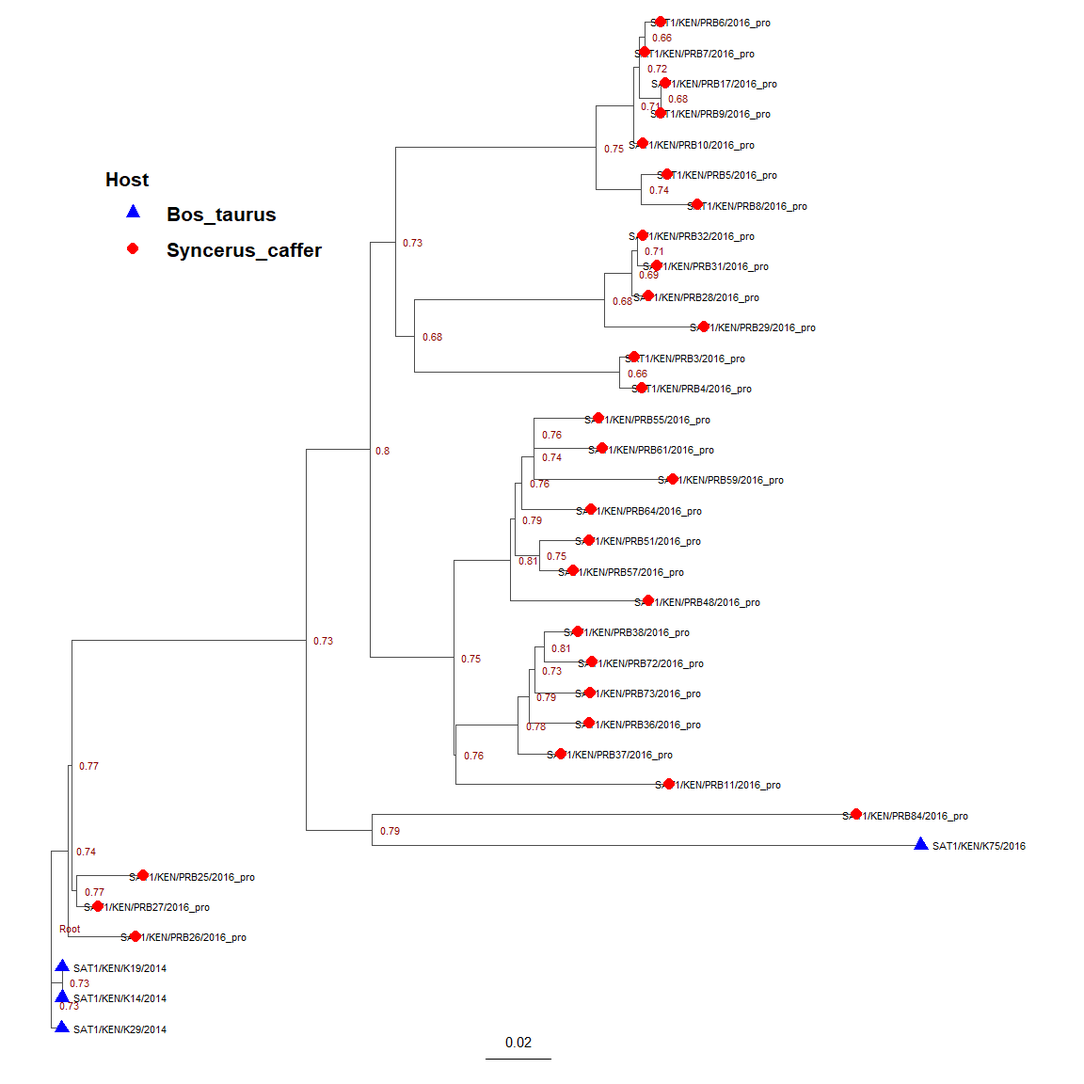
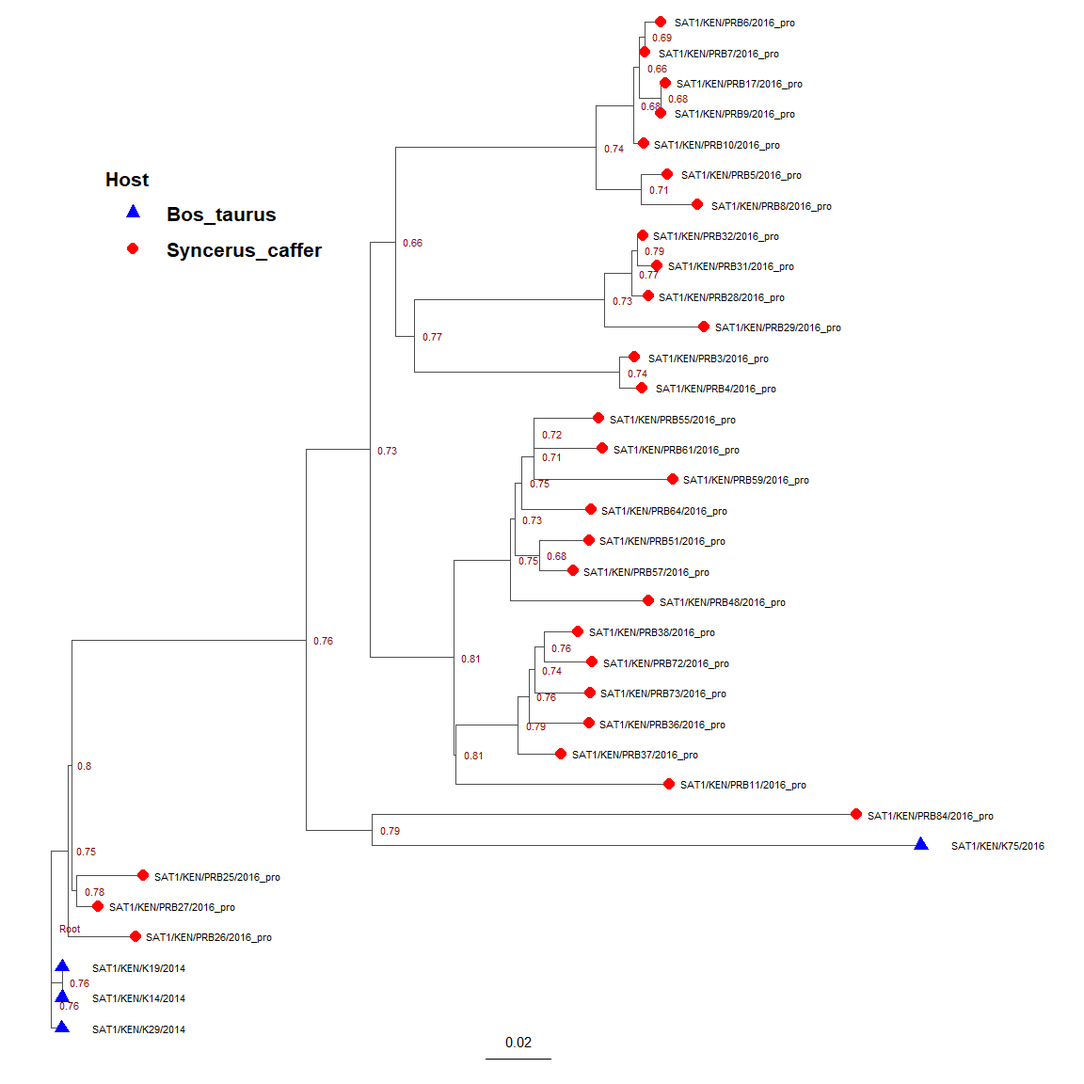
render files

diff --git a/overview.md b/overview.md
@@ -355,7 +355,7 @@ seq_meta  %>%
 
 </details>
 <div style='all:initial';>
-<div id="qzqixdbtzt" style="padding-left:0px;padding-right:0px;padding-top:10px;padding-bottom:10px;overflow-x:auto;overflow-y:auto;width:auto;height:auto;">
+<div id="rguhryrmff" style="padding-left:0px;padding-right:0px;padding-top:10px;padding-bottom:10px;overflow-x:auto;overflow-y:auto;width:auto;height:auto;">
   
   <table class="gt_table" style="-webkit-font-smoothing: antialiased; -moz-osx-font-smoothing: grayscale; font-family: system-ui, 'Segoe UI', Roboto, Helvetica, Arial, sans-serif, 'Apple Color Emoji', 'Segoe UI Emoji', 'Segoe UI Symbol', 'Noto Color Emoji'; display: table; border-collapse: collapse; line-height: normal; margin-left: auto; margin-right: auto; color: #333333; font-size: small; font-weight: normal; font-style: normal; background-color: #FFFFFF; border-top-style: solid; border-top-width: 2px; border-top-color: #5F5F5F; border-right-style: none; border-right-width: 2px; border-right-color: #D3D3D3; border-bottom-style: solid; border-bottom-width: 2px; border-bottom-color: #5F5F5F; border-left-style: none; border-left-width: 2px; border-left-color: #D3D3D3; table-layout: fixed; width: 0px;" data-quarto-disable-processing="false" data-quarto-bootstrap="false" width="0" bgcolor="#FFFFFF">
   <colgroup>
@@ -1168,7 +1168,7 @@ mt <- modelTest(aligned_phyDat)
      TIM3+G(4)+I 73 -3680.952 7507.905 7835.949 
             TVMe 69 -3960.333 8058.665 8368.734 
           TVMe+I 70 -3722.258 7584.517 7899.079 
-       TVMe+G(4) 70 -3701.721 7543.442 7858.004 
+       TVMe+G(4) 70 -3701.721 7543.442 7858.005 
      TVMe+G(4)+I 71 -3695.488 7532.976 7852.032 
              TVM 72 -3948.254 8040.508 8364.059 
            TVM+I 73 -3700.559 7547.119 7875.163 
@@ -1195,7 +1195,7 @@ mt %>%
 
 </details>
 <div style='all:initial';>
-<div id="gubkxxfmkn" style="padding-left:0px;padding-right:0px;padding-top:10px;padding-bottom:10px;overflow-x:auto;overflow-y:auto;width:auto;height:auto;">
+<div id="czjatsgcpr" style="padding-left:0px;padding-right:0px;padding-top:10px;padding-bottom:10px;overflow-x:auto;overflow-y:auto;width:auto;height:auto;">
   
   <table class="gt_table" data-quarto-disable-processing="false" data-quarto-bootstrap="false" style="-webkit-font-smoothing: antialiased; -moz-osx-font-smoothing: grayscale; font-family: system-ui, 'Segoe UI', Roboto, Helvetica, Arial, sans-serif, 'Apple Color Emoji', 'Segoe UI Emoji', 'Segoe UI Symbol', 'Noto Color Emoji'; display: table; border-collapse: collapse; line-height: normal; margin-left: auto; margin-right: auto; color: #333333; font-size: 16px; font-weight: normal; font-style: normal; background-color: #FFFFFF; width: auto; border-top-style: solid; border-top-width: 2px; border-top-color: #A8A8A8; border-right-style: none; border-right-width: 2px; border-right-color: #D3D3D3; border-bottom-style: solid; border-bottom-width: 2px; border-bottom-color: #A8A8A8; border-left-style: none; border-left-width: 2px; border-left-color: #D3D3D3;" bgcolor="#FFFFFF">
   <thead style="border-style: none;">
@@ -1215,41 +1215,41 @@ mt %>%
 <td headers="df" class="gt_row gt_right" style="border-style: none; padding-top: 8px; padding-bottom: 8px; padding-left: 5px; padding-right: 5px; margin: 10px; border-top-style: solid; border-top-width: 1px; border-top-color: #D3D3D3; border-left-style: none; border-left-width: 1px; border-left-color: #D3D3D3; border-right-style: none; border-right-width: 1px; border-right-color: #D3D3D3; vertical-align: middle; overflow-x: hidden; text-align: right; font-variant-numeric: tabular-nums;" valign="middle" align="right">73</td>
 <td headers="logLik" class="gt_row gt_right" style="border-style: none; padding-top: 8px; padding-bottom: 8px; padding-left: 5px; padding-right: 5px; margin: 10px; border-top-style: solid; border-top-width: 1px; border-top-color: #D3D3D3; border-left-style: none; border-left-width: 1px; border-left-color: #D3D3D3; border-right-style: none; border-right-width: 1px; border-right-color: #D3D3D3; vertical-align: middle; overflow-x: hidden; text-align: right; font-variant-numeric: tabular-nums;" valign="middle" align="right">-3676.939</td>
 <td headers="AIC" class="gt_row gt_right" style="border-style: none; padding-top: 8px; padding-bottom: 8px; padding-left: 5px; padding-right: 5px; margin: 10px; border-top-style: solid; border-top-width: 1px; border-top-color: #D3D3D3; border-left-style: none; border-left-width: 1px; border-left-color: #D3D3D3; border-right-style: none; border-right-width: 1px; border-right-color: #D3D3D3; vertical-align: middle; overflow-x: hidden; text-align: right; font-variant-numeric: tabular-nums;" valign="middle" align="right">7499.877</td>
-<td headers="AICw" class="gt_row gt_right" style="border-style: none; padding-top: 8px; padding-bottom: 8px; padding-left: 5px; padding-right: 5px; margin: 10px; border-top-style: solid; border-top-width: 1px; border-top-color: #D3D3D3; border-left-style: none; border-left-width: 1px; border-left-color: #D3D3D3; border-right-style: none; border-right-width: 1px; border-right-color: #D3D3D3; vertical-align: middle; overflow-x: hidden; text-align: right; font-variant-numeric: tabular-nums;" valign="middle" align="right">0.50565247</td>
+<td headers="AICw" class="gt_row gt_right" style="border-style: none; padding-top: 8px; padding-bottom: 8px; padding-left: 5px; padding-right: 5px; margin: 10px; border-top-style: solid; border-top-width: 1px; border-top-color: #D3D3D3; border-left-style: none; border-left-width: 1px; border-left-color: #D3D3D3; border-right-style: none; border-right-width: 1px; border-right-color: #D3D3D3; vertical-align: middle; overflow-x: hidden; text-align: right; font-variant-numeric: tabular-nums;" valign="middle" align="right">0.50564699</td>
 <td headers="AICc" class="gt_row gt_right" style="border-style: none; padding-top: 8px; padding-bottom: 8px; padding-left: 5px; padding-right: 5px; margin: 10px; border-top-style: solid; border-top-width: 1px; border-top-color: #D3D3D3; border-left-style: none; border-left-width: 1px; border-left-color: #D3D3D3; border-right-style: none; border-right-width: 1px; border-right-color: #D3D3D3; vertical-align: middle; overflow-x: hidden; text-align: right; font-variant-numeric: tabular-nums;" valign="middle" align="right">7518.283</td>
-<td headers="AICcw" class="gt_row gt_right" style="border-style: none; padding-top: 8px; padding-bottom: 8px; padding-left: 5px; padding-right: 5px; margin: 10px; border-top-style: solid; border-top-width: 1px; border-top-color: #D3D3D3; border-left-style: none; border-left-width: 1px; border-left-color: #D3D3D3; border-right-style: none; border-right-width: 1px; border-right-color: #D3D3D3; vertical-align: middle; overflow-x: hidden; text-align: right; font-variant-numeric: tabular-nums;" valign="middle" align="right">0.52686838</td>
+<td headers="AICcw" class="gt_row gt_right" style="border-style: none; padding-top: 8px; padding-bottom: 8px; padding-left: 5px; padding-right: 5px; margin: 10px; border-top-style: solid; border-top-width: 1px; border-top-color: #D3D3D3; border-left-style: none; border-left-width: 1px; border-left-color: #D3D3D3; border-right-style: none; border-right-width: 1px; border-right-color: #D3D3D3; vertical-align: middle; overflow-x: hidden; text-align: right; font-variant-numeric: tabular-nums;" valign="middle" align="right">0.52686441</td>
 <td headers="BIC" class="gt_row gt_right" style="border-style: none; padding-top: 8px; padding-bottom: 8px; padding-left: 5px; padding-right: 5px; margin: 10px; border-top-style: solid; border-top-width: 1px; border-top-color: #D3D3D3; border-left-style: none; border-left-width: 1px; border-left-color: #D3D3D3; border-right-style: none; border-right-width: 1px; border-right-color: #D3D3D3; vertical-align: middle; overflow-x: hidden; text-align: right; font-variant-numeric: tabular-nums;" valign="middle" align="right">7827.921</td></tr>
     <tr style="border-style: none;"><td headers="Model" class="gt_row gt_left" style="border-style: none; padding-top: 8px; padding-bottom: 8px; padding-left: 5px; padding-right: 5px; margin: 10px; border-top-style: solid; border-top-width: 1px; border-top-color: #D3D3D3; border-left-style: none; border-left-width: 1px; border-left-color: #D3D3D3; border-right-style: none; border-right-width: 1px; border-right-color: #D3D3D3; vertical-align: middle; overflow-x: hidden; text-align: left;" valign="middle" align="left">GTR+G(4)+I</td>
 <td headers="df" class="gt_row gt_right" style="border-style: none; padding-top: 8px; padding-bottom: 8px; padding-left: 5px; padding-right: 5px; margin: 10px; border-top-style: solid; border-top-width: 1px; border-top-color: #D3D3D3; border-left-style: none; border-left-width: 1px; border-left-color: #D3D3D3; border-right-style: none; border-right-width: 1px; border-right-color: #D3D3D3; vertical-align: middle; overflow-x: hidden; text-align: right; font-variant-numeric: tabular-nums;" valign="middle" align="right">75</td>
 <td headers="logLik" class="gt_row gt_right" style="border-style: none; padding-top: 8px; padding-bottom: 8px; padding-left: 5px; padding-right: 5px; margin: 10px; border-top-style: solid; border-top-width: 1px; border-top-color: #D3D3D3; border-left-style: none; border-left-width: 1px; border-left-color: #D3D3D3; border-right-style: none; border-right-width: 1px; border-right-color: #D3D3D3; vertical-align: middle; overflow-x: hidden; text-align: right; font-variant-numeric: tabular-nums;" valign="middle" align="right">-3675.830</td>
 <td headers="AIC" class="gt_row gt_right" style="border-style: none; padding-top: 8px; padding-bottom: 8px; padding-left: 5px; padding-right: 5px; margin: 10px; border-top-style: solid; border-top-width: 1px; border-top-color: #D3D3D3; border-left-style: none; border-left-width: 1px; border-left-color: #D3D3D3; border-right-style: none; border-right-width: 1px; border-right-color: #D3D3D3; vertical-align: middle; overflow-x: hidden; text-align: right; font-variant-numeric: tabular-nums;" valign="middle" align="right">7501.660</td>
-<td headers="AICw" class="gt_row gt_right" style="border-style: none; padding-top: 8px; padding-bottom: 8px; padding-left: 5px; padding-right: 5px; margin: 10px; border-top-style: solid; border-top-width: 1px; border-top-color: #D3D3D3; border-left-style: none; border-left-width: 1px; border-left-color: #D3D3D3; border-right-style: none; border-right-width: 1px; border-right-color: #D3D3D3; vertical-align: middle; overflow-x: hidden; text-align: right; font-variant-numeric: tabular-nums;" valign="middle" align="right">0.20738794</td>
+<td headers="AICw" class="gt_row gt_right" style="border-style: none; padding-top: 8px; padding-bottom: 8px; padding-left: 5px; padding-right: 5px; margin: 10px; border-top-style: solid; border-top-width: 1px; border-top-color: #D3D3D3; border-left-style: none; border-left-width: 1px; border-left-color: #D3D3D3; border-right-style: none; border-right-width: 1px; border-right-color: #D3D3D3; vertical-align: middle; overflow-x: hidden; text-align: right; font-variant-numeric: tabular-nums;" valign="middle" align="right">0.20739499</td>
 <td headers="AICc" class="gt_row gt_right" style="border-style: none; padding-top: 8px; padding-bottom: 8px; padding-left: 5px; padding-right: 5px; margin: 10px; border-top-style: solid; border-top-width: 1px; border-top-color: #D3D3D3; border-left-style: none; border-left-width: 1px; border-left-color: #D3D3D3; border-right-style: none; border-right-width: 1px; border-right-color: #D3D3D3; vertical-align: middle; overflow-x: hidden; text-align: right; font-variant-numeric: tabular-nums;" valign="middle" align="right">7521.147</td>
-<td headers="AICcw" class="gt_row gt_right" style="border-style: none; padding-top: 8px; padding-bottom: 8px; padding-left: 5px; padding-right: 5px; margin: 10px; border-top-style: solid; border-top-width: 1px; border-top-color: #D3D3D3; border-left-style: none; border-left-width: 1px; border-left-color: #D3D3D3; border-right-style: none; border-right-width: 1px; border-right-color: #D3D3D3; vertical-align: middle; overflow-x: hidden; text-align: right; font-variant-numeric: tabular-nums;" valign="middle" align="right">0.12581698</td>
+<td headers="AICcw" class="gt_row gt_right" style="border-style: none; padding-top: 8px; padding-bottom: 8px; padding-left: 5px; padding-right: 5px; margin: 10px; border-top-style: solid; border-top-width: 1px; border-top-color: #D3D3D3; border-left-style: none; border-left-width: 1px; border-left-color: #D3D3D3; border-right-style: none; border-right-width: 1px; border-right-color: #D3D3D3; vertical-align: middle; overflow-x: hidden; text-align: right; font-variant-numeric: tabular-nums;" valign="middle" align="right">0.12582167</td>
 <td headers="BIC" class="gt_row gt_right" style="border-style: none; padding-top: 8px; padding-bottom: 8px; padding-left: 5px; padding-right: 5px; margin: 10px; border-top-style: solid; border-top-width: 1px; border-top-color: #D3D3D3; border-left-style: none; border-left-width: 1px; border-left-color: #D3D3D3; border-right-style: none; border-right-width: 1px; border-right-color: #D3D3D3; vertical-align: middle; overflow-x: hidden; text-align: right; font-variant-numeric: tabular-nums;" valign="middle" align="right">7838.691</td></tr>
     <tr style="border-style: none;"><td headers="Model" class="gt_row gt_left" style="border-style: none; padding-top: 8px; padding-bottom: 8px; padding-left: 5px; padding-right: 5px; margin: 10px; border-top-style: solid; border-top-width: 1px; border-top-color: #D3D3D3; border-left-style: none; border-left-width: 1px; border-left-color: #D3D3D3; border-right-style: none; border-right-width: 1px; border-right-color: #D3D3D3; vertical-align: middle; overflow-x: hidden; text-align: left;" valign="middle" align="left">TPM2u+G(4)+I</td>
 <td headers="df" class="gt_row gt_right" style="border-style: none; padding-top: 8px; padding-bottom: 8px; padding-left: 5px; padding-right: 5px; margin: 10px; border-top-style: solid; border-top-width: 1px; border-top-color: #D3D3D3; border-left-style: none; border-left-width: 1px; border-left-color: #D3D3D3; border-right-style: none; border-right-width: 1px; border-right-color: #D3D3D3; vertical-align: middle; overflow-x: hidden; text-align: right; font-variant-numeric: tabular-nums;" valign="middle" align="right">72</td>
 <td headers="logLik" class="gt_row gt_right" style="border-style: none; padding-top: 8px; padding-bottom: 8px; padding-left: 5px; padding-right: 5px; margin: 10px; border-top-style: solid; border-top-width: 1px; border-top-color: #D3D3D3; border-left-style: none; border-left-width: 1px; border-left-color: #D3D3D3; border-right-style: none; border-right-width: 1px; border-right-color: #D3D3D3; vertical-align: middle; overflow-x: hidden; text-align: right; font-variant-numeric: tabular-nums;" valign="middle" align="right">-3679.416</td>
 <td headers="AIC" class="gt_row gt_right" style="border-style: none; padding-top: 8px; padding-bottom: 8px; padding-left: 5px; padding-right: 5px; margin: 10px; border-top-style: solid; border-top-width: 1px; border-top-color: #D3D3D3; border-left-style: none; border-left-width: 1px; border-left-color: #D3D3D3; border-right-style: none; border-right-width: 1px; border-right-color: #D3D3D3; vertical-align: middle; overflow-x: hidden; text-align: right; font-variant-numeric: tabular-nums;" valign="middle" align="right">7502.832</td>
-<td headers="AICw" class="gt_row gt_right" style="border-style: none; padding-top: 8px; padding-bottom: 8px; padding-left: 5px; padding-right: 5px; margin: 10px; border-top-style: solid; border-top-width: 1px; border-top-color: #D3D3D3; border-left-style: none; border-left-width: 1px; border-left-color: #D3D3D3; border-right-style: none; border-right-width: 1px; border-right-color: #D3D3D3; vertical-align: middle; overflow-x: hidden; text-align: right; font-variant-numeric: tabular-nums;" valign="middle" align="right">0.11539228</td>
+<td headers="AICw" class="gt_row gt_right" style="border-style: none; padding-top: 8px; padding-bottom: 8px; padding-left: 5px; padding-right: 5px; margin: 10px; border-top-style: solid; border-top-width: 1px; border-top-color: #D3D3D3; border-left-style: none; border-left-width: 1px; border-left-color: #D3D3D3; border-right-style: none; border-right-width: 1px; border-right-color: #D3D3D3; vertical-align: middle; overflow-x: hidden; text-align: right; font-variant-numeric: tabular-nums;" valign="middle" align="right">0.11539088</td>
 <td headers="AICc" class="gt_row gt_right" style="border-style: none; padding-top: 8px; padding-bottom: 8px; padding-left: 5px; padding-right: 5px; margin: 10px; border-top-style: solid; border-top-width: 1px; border-top-color: #D3D3D3; border-left-style: none; border-left-width: 1px; border-left-color: #D3D3D3; border-right-style: none; border-right-width: 1px; border-right-color: #D3D3D3; vertical-align: middle; overflow-x: hidden; text-align: right; font-variant-numeric: tabular-nums;" valign="middle" align="right">7520.710</td>
-<td headers="AICcw" class="gt_row gt_right" style="border-style: none; padding-top: 8px; padding-bottom: 8px; padding-left: 5px; padding-right: 5px; margin: 10px; border-top-style: solid; border-top-width: 1px; border-top-color: #D3D3D3; border-left-style: none; border-left-width: 1px; border-left-color: #D3D3D3; border-right-style: none; border-right-width: 1px; border-right-color: #D3D3D3; vertical-align: middle; overflow-x: hidden; text-align: right; font-variant-numeric: tabular-nums;" valign="middle" align="right">0.15655210</td>
+<td headers="AICcw" class="gt_row gt_right" style="border-style: none; padding-top: 8px; padding-bottom: 8px; padding-left: 5px; padding-right: 5px; margin: 10px; border-top-style: solid; border-top-width: 1px; border-top-color: #D3D3D3; border-left-style: none; border-left-width: 1px; border-left-color: #D3D3D3; border-right-style: none; border-right-width: 1px; border-right-color: #D3D3D3; vertical-align: middle; overflow-x: hidden; text-align: right; font-variant-numeric: tabular-nums;" valign="middle" align="right">0.15655071</td>
 <td headers="BIC" class="gt_row gt_right" style="border-style: none; padding-top: 8px; padding-bottom: 8px; padding-left: 5px; padding-right: 5px; margin: 10px; border-top-style: solid; border-top-width: 1px; border-top-color: #D3D3D3; border-left-style: none; border-left-width: 1px; border-left-color: #D3D3D3; border-right-style: none; border-right-width: 1px; border-right-color: #D3D3D3; vertical-align: middle; overflow-x: hidden; text-align: right; font-variant-numeric: tabular-nums;" valign="middle" align="right">7826.383</td></tr>
     <tr style="border-style: none;"><td headers="Model" class="gt_row gt_left" style="border-style: none; padding-top: 8px; padding-bottom: 8px; padding-left: 5px; padding-right: 5px; margin: 10px; border-top-style: solid; border-top-width: 1px; border-top-color: #D3D3D3; border-left-style: none; border-left-width: 1px; border-left-color: #D3D3D3; border-right-style: none; border-right-width: 1px; border-right-color: #D3D3D3; vertical-align: middle; overflow-x: hidden; text-align: left;" valign="middle" align="left">TIM1+G(4)+I</td>
 <td headers="df" class="gt_row gt_right" style="border-style: none; padding-top: 8px; padding-bottom: 8px; padding-left: 5px; padding-right: 5px; margin: 10px; border-top-style: solid; border-top-width: 1px; border-top-color: #D3D3D3; border-left-style: none; border-left-width: 1px; border-left-color: #D3D3D3; border-right-style: none; border-right-width: 1px; border-right-color: #D3D3D3; vertical-align: middle; overflow-x: hidden; text-align: right; font-variant-numeric: tabular-nums;" valign="middle" align="right">73</td>
 <td headers="logLik" class="gt_row gt_right" style="border-style: none; padding-top: 8px; padding-bottom: 8px; padding-left: 5px; padding-right: 5px; margin: 10px; border-top-style: solid; border-top-width: 1px; border-top-color: #D3D3D3; border-left-style: none; border-left-width: 1px; border-left-color: #D3D3D3; border-right-style: none; border-right-width: 1px; border-right-color: #D3D3D3; vertical-align: middle; overflow-x: hidden; text-align: right; font-variant-numeric: tabular-nums;" valign="middle" align="right">-3679.196</td>
 <td headers="AIC" class="gt_row gt_right" style="border-style: none; padding-top: 8px; padding-bottom: 8px; padding-left: 5px; padding-right: 5px; margin: 10px; border-top-style: solid; border-top-width: 1px; border-top-color: #D3D3D3; border-left-style: none; border-left-width: 1px; border-left-color: #D3D3D3; border-right-style: none; border-right-width: 1px; border-right-color: #D3D3D3; vertical-align: middle; overflow-x: hidden; text-align: right; font-variant-numeric: tabular-nums;" valign="middle" align="right">7504.391</td>
-<td headers="AICw" class="gt_row gt_right" style="border-style: none; padding-top: 8px; padding-bottom: 8px; padding-left: 5px; padding-right: 5px; margin: 10px; border-top-style: solid; border-top-width: 1px; border-top-color: #D3D3D3; border-left-style: none; border-left-width: 1px; border-left-color: #D3D3D3; border-right-style: none; border-right-width: 1px; border-right-color: #D3D3D3; vertical-align: middle; overflow-x: hidden; text-align: right; font-variant-numeric: tabular-nums;" valign="middle" align="right">0.05292476</td>
+<td headers="AICw" class="gt_row gt_right" style="border-style: none; padding-top: 8px; padding-bottom: 8px; padding-left: 5px; padding-right: 5px; margin: 10px; border-top-style: solid; border-top-width: 1px; border-top-color: #D3D3D3; border-left-style: none; border-left-width: 1px; border-left-color: #D3D3D3; border-right-style: none; border-right-width: 1px; border-right-color: #D3D3D3; vertical-align: middle; overflow-x: hidden; text-align: right; font-variant-numeric: tabular-nums;" valign="middle" align="right">0.05292586</td>
 <td headers="AICc" class="gt_row gt_right" style="border-style: none; padding-top: 8px; padding-bottom: 8px; padding-left: 5px; padding-right: 5px; margin: 10px; border-top-style: solid; border-top-width: 1px; border-top-color: #D3D3D3; border-left-style: none; border-left-width: 1px; border-left-color: #D3D3D3; border-right-style: none; border-right-width: 1px; border-right-color: #D3D3D3; vertical-align: middle; overflow-x: hidden; text-align: right; font-variant-numeric: tabular-nums;" valign="middle" align="right">7522.797</td>
-<td headers="AICcw" class="gt_row gt_right" style="border-style: none; padding-top: 8px; padding-bottom: 8px; padding-left: 5px; padding-right: 5px; margin: 10px; border-top-style: solid; border-top-width: 1px; border-top-color: #D3D3D3; border-left-style: none; border-left-width: 1px; border-left-color: #D3D3D3; border-right-style: none; border-right-width: 1px; border-right-color: #D3D3D3; vertical-align: middle; overflow-x: hidden; text-align: right; font-variant-numeric: tabular-nums;" valign="middle" align="right">0.05514535</td>
+<td headers="AICcw" class="gt_row gt_right" style="border-style: none; padding-top: 8px; padding-bottom: 8px; padding-left: 5px; padding-right: 5px; margin: 10px; border-top-style: solid; border-top-width: 1px; border-top-color: #D3D3D3; border-left-style: none; border-left-width: 1px; border-left-color: #D3D3D3; border-right-style: none; border-right-width: 1px; border-right-color: #D3D3D3; vertical-align: middle; overflow-x: hidden; text-align: right; font-variant-numeric: tabular-nums;" valign="middle" align="right">0.05514667</td>
 <td headers="BIC" class="gt_row gt_right" style="border-style: none; padding-top: 8px; padding-bottom: 8px; padding-left: 5px; padding-right: 5px; margin: 10px; border-top-style: solid; border-top-width: 1px; border-top-color: #D3D3D3; border-left-style: none; border-left-width: 1px; border-left-color: #D3D3D3; border-right-style: none; border-right-width: 1px; border-right-color: #D3D3D3; vertical-align: middle; overflow-x: hidden; text-align: right; font-variant-numeric: tabular-nums;" valign="middle" align="right">7832.435</td></tr>
     <tr style="border-style: none;"><td headers="Model" class="gt_row gt_left" style="border-style: none; padding-top: 8px; padding-bottom: 8px; padding-left: 5px; padding-right: 5px; margin: 10px; border-top-style: solid; border-top-width: 1px; border-top-color: #D3D3D3; border-left-style: none; border-left-width: 1px; border-left-color: #D3D3D3; border-right-style: none; border-right-width: 1px; border-right-color: #D3D3D3; vertical-align: middle; overflow-x: hidden; text-align: left;" valign="middle" align="left">TVM+G(4)+I</td>
 <td headers="df" class="gt_row gt_right" style="border-style: none; padding-top: 8px; padding-bottom: 8px; padding-left: 5px; padding-right: 5px; margin: 10px; border-top-style: solid; border-top-width: 1px; border-top-color: #D3D3D3; border-left-style: none; border-left-width: 1px; border-left-color: #D3D3D3; border-right-style: none; border-right-width: 1px; border-right-color: #D3D3D3; vertical-align: middle; overflow-x: hidden; text-align: right; font-variant-numeric: tabular-nums;" valign="middle" align="right">74</td>
 <td headers="logLik" class="gt_row gt_right" style="border-style: none; padding-top: 8px; padding-bottom: 8px; padding-left: 5px; padding-right: 5px; margin: 10px; border-top-style: solid; border-top-width: 1px; border-top-color: #D3D3D3; border-left-style: none; border-left-width: 1px; border-left-color: #D3D3D3; border-right-style: none; border-right-width: 1px; border-right-color: #D3D3D3; vertical-align: middle; overflow-x: hidden; text-align: right; font-variant-numeric: tabular-nums;" valign="middle" align="right">-3678.413</td>
 <td headers="AIC" class="gt_row gt_right" style="border-style: none; padding-top: 8px; padding-bottom: 8px; padding-left: 5px; padding-right: 5px; margin: 10px; border-top-style: solid; border-top-width: 1px; border-top-color: #D3D3D3; border-left-style: none; border-left-width: 1px; border-left-color: #D3D3D3; border-right-style: none; border-right-width: 1px; border-right-color: #D3D3D3; vertical-align: middle; overflow-x: hidden; text-align: right; font-variant-numeric: tabular-nums;" valign="middle" align="right">7504.826</td>
-<td headers="AICw" class="gt_row gt_right" style="border-style: none; padding-top: 8px; padding-bottom: 8px; padding-left: 5px; padding-right: 5px; margin: 10px; border-top-style: solid; border-top-width: 1px; border-top-color: #D3D3D3; border-left-style: none; border-left-width: 1px; border-left-color: #D3D3D3; border-right-style: none; border-right-width: 1px; border-right-color: #D3D3D3; vertical-align: middle; overflow-x: hidden; text-align: right; font-variant-numeric: tabular-nums;" valign="middle" align="right">0.04259109</td>
+<td headers="AICw" class="gt_row gt_right" style="border-style: none; padding-top: 8px; padding-bottom: 8px; padding-left: 5px; padding-right: 5px; margin: 10px; border-top-style: solid; border-top-width: 1px; border-top-color: #D3D3D3; border-left-style: none; border-left-width: 1px; border-left-color: #D3D3D3; border-right-style: none; border-right-width: 1px; border-right-color: #D3D3D3; vertical-align: middle; overflow-x: hidden; text-align: right; font-variant-numeric: tabular-nums;" valign="middle" align="right">0.04258996</td>
 <td headers="AICc" class="gt_row gt_right" style="border-style: none; padding-top: 8px; padding-bottom: 8px; padding-left: 5px; padding-right: 5px; margin: 10px; border-top-style: solid; border-top-width: 1px; border-top-color: #D3D3D3; border-left-style: none; border-left-width: 1px; border-left-color: #D3D3D3; border-right-style: none; border-right-width: 1px; border-right-color: #D3D3D3; vertical-align: middle; overflow-x: hidden; text-align: right; font-variant-numeric: tabular-nums;" valign="middle" align="right">7523.768</td>
-<td headers="AICcw" class="gt_row gt_right" style="border-style: none; padding-top: 8px; padding-bottom: 8px; padding-left: 5px; padding-right: 5px; margin: 10px; border-top-style: solid; border-top-width: 1px; border-top-color: #D3D3D3; border-left-style: none; border-left-width: 1px; border-left-color: #D3D3D3; border-right-style: none; border-right-width: 1px; border-right-color: #D3D3D3; vertical-align: middle; overflow-x: hidden; text-align: right; font-variant-numeric: tabular-nums;" valign="middle" align="right">0.03393620</td>
+<td headers="AICcw" class="gt_row gt_right" style="border-style: none; padding-top: 8px; padding-bottom: 8px; padding-left: 5px; padding-right: 5px; margin: 10px; border-top-style: solid; border-top-width: 1px; border-top-color: #D3D3D3; border-left-style: none; border-left-width: 1px; border-left-color: #D3D3D3; border-right-style: none; border-right-width: 1px; border-right-color: #D3D3D3; vertical-align: middle; overflow-x: hidden; text-align: right; font-variant-numeric: tabular-nums;" valign="middle" align="right">0.03393541</td>
 <td headers="BIC" class="gt_row gt_right" style="border-style: none; padding-top: 8px; padding-bottom: 8px; padding-left: 5px; padding-right: 5px; margin: 10px; border-top-style: solid; border-top-width: 1px; border-top-color: #D3D3D3; border-left-style: none; border-left-width: 1px; border-left-color: #D3D3D3; border-right-style: none; border-right-width: 1px; border-right-color: #D3D3D3; vertical-align: middle; overflow-x: hidden; text-align: right; font-variant-numeric: tabular-nums;" valign="middle" align="right">7837.364</td></tr>
   </tbody>
   
@@ -1273,21 +1273,21 @@ best_mod
     model: GTR+G(4)+I 
     loglikelihood: -3675.83 
     unconstrained loglikelihood: -2240.76 
-    Proportion of invariant sites: 0.5208637 
+    Proportion of invariant sites: 0.5208753 
     Discrete gamma model
     Number of rate categories: 4 
-    Shape parameter: 1.148349 
+    Shape parameter: 1.148496 
 
     Rate matrix:
-              a          c          g        t
-    a  0.000000  1.4787646 10.3874665  1.33241
-    c  1.478765  0.0000000  0.4664821 15.40336
-    g 10.387467  0.4664821  0.0000000  1.00000
-    t  1.332410 15.4033594  1.0000000  0.00000
+              a          c          g         t
+    a  0.000000  1.4780899 10.3864230  1.332913
+    c  1.478090  0.0000000  0.4662525 15.398463
+    g 10.386423  0.4662525  0.0000000  1.000000
+    t  1.332913 15.3984631  1.0000000  0.000000
 
     Base frequencies:  
             a         c         g         t 
-    0.2474541 0.3143960 0.2642420 0.1739078 
+    0.2473969 0.3145267 0.2642101 0.1738664 
 
 ## Maximum Likelihood Tree
 
@@ -1414,7 +1414,7 @@ ggtree(ml_tree, size=0.5, col = "gray30",
                 size=3, 
                 color="black") +
     geom_tiplab(col="gray40", size=3, 
-                align=FALSE, offset = 0.025, hjust = 0.8) +
+                align=FALSE, offset = 0.025, hjust = 1) +
     geom_treescale(width=0.02) 
 ```
 
@@ -1453,7 +1453,7 @@ tmp_tree <- full_join(ml_tree, tree_df, by = 'label')
 ggtree(tmp_tree, size=0.5, col = "gray30", 
               ladderize=TRUE) + 
     geom_tiplab(aes(label = isolate), col="gray40", size=3, 
-                align=FALSE, offset = 0.025, hjust = 0.8) +
+                align=FALSE, offset = 0.025, hjust = 0.6) +
     geom_text2(aes(subset = !isTip, label=label), 
                hjust=-0.4, 
                size=3, 
